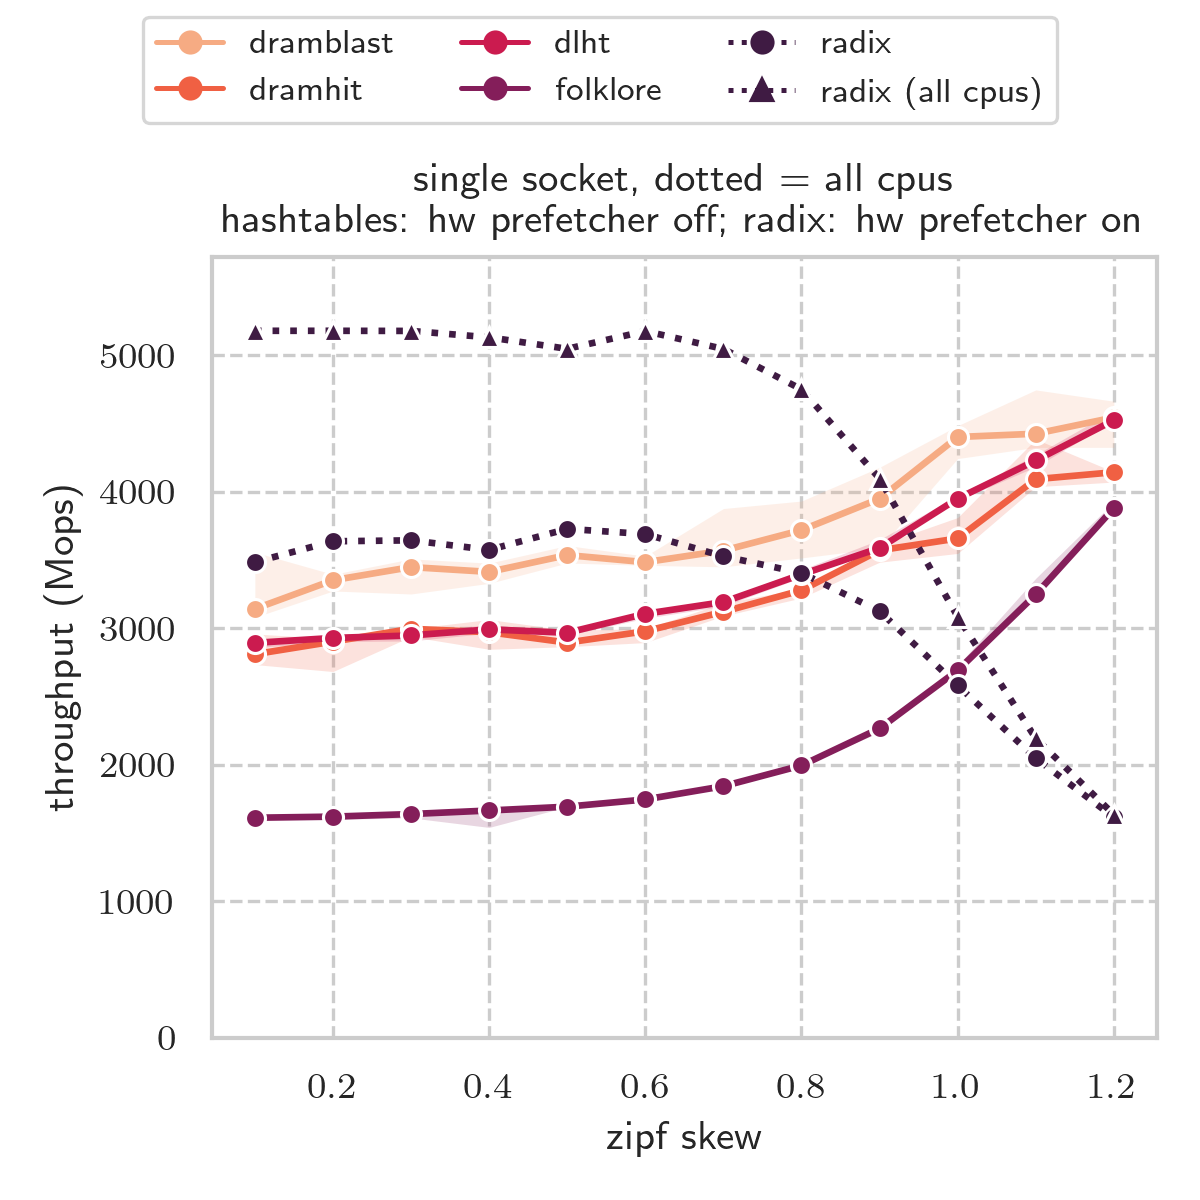
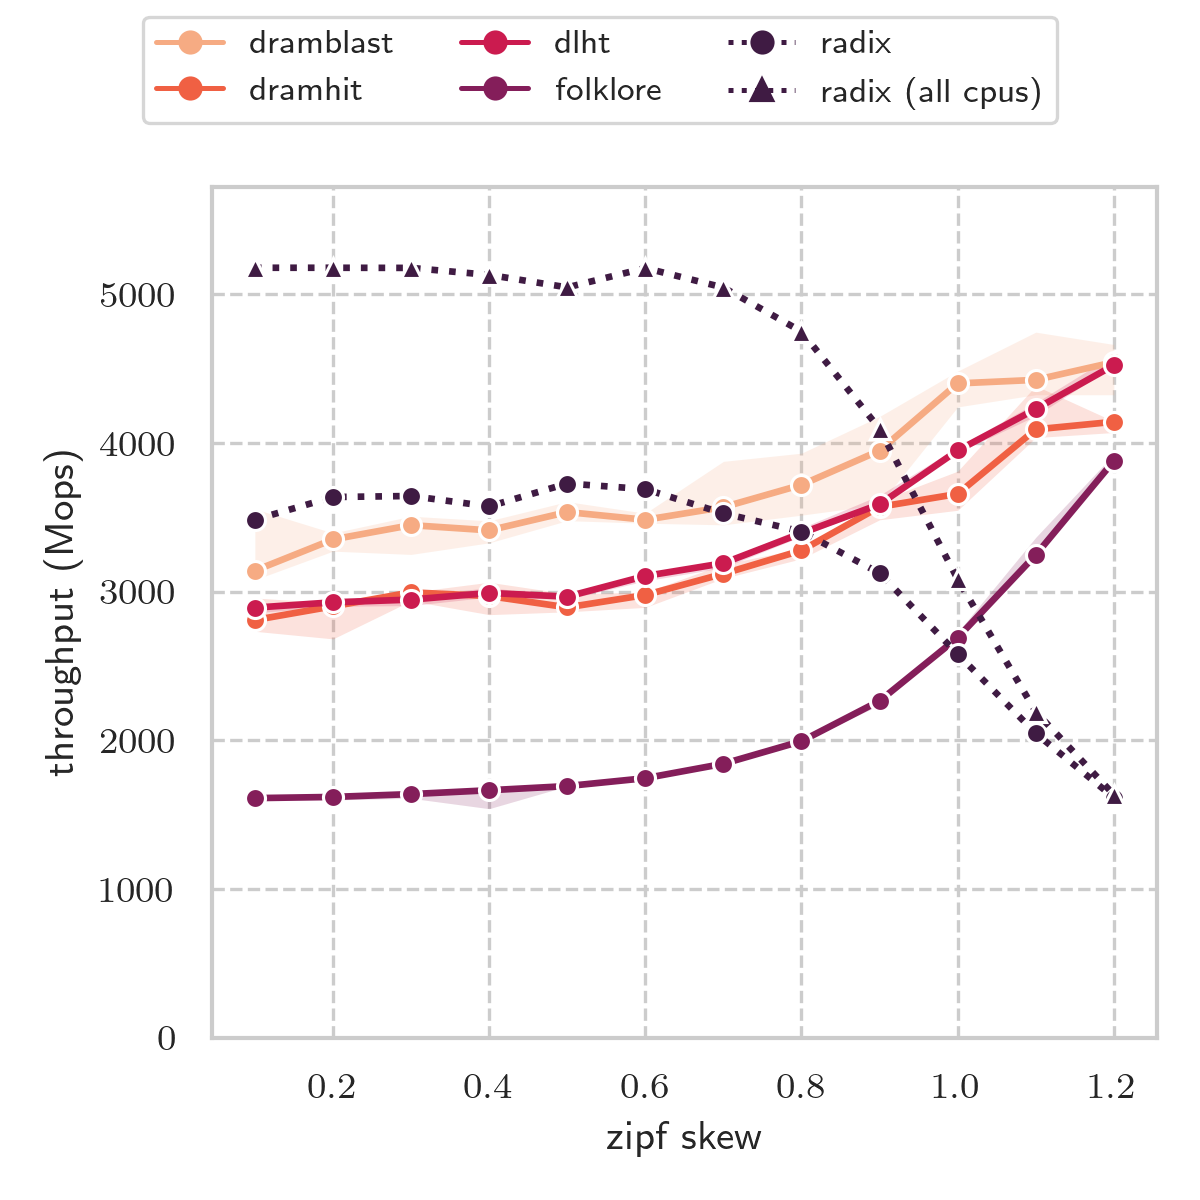
l

diff --git a/scripts/eurosys_2026/macro_uniform/plot_combined_prefoff_bw.py b/scripts/eurosys_2026/macro_uniform/plot_combined_prefoff_bw.py
@@ -6,12 +6,18 @@ panel drawn by plot_data_bw.draw. Every machine names its pref-off runs its
 own way, so each is mapped onto the plain table name first; that way one
 legend and one colour per table cover all three panels.
 
+The two figures are stacked in the paper, so only the top one (insertion)
+carries the legend and the machine titles (the columns line up); table size,
+prefetcher setting and phase are in the LaTeX caption.
+
     python3 plot_combined_prefoff_bw.py
     -> combined_uniform_prefoff_bw_set.png, combined_uniform_prefoff_bw_get.png
 """
 
 import json
 from pathlib import Path
+
+from matplotlib.lines import Line2D
 
 import plot_data_bw as pb
 from plot_data_bw import ps
@@ -20,15 +26,15 @@ SCRIPT_DIR = Path(__file__).resolve().parent
 
 # (label, json, {plain name: that json's pref-off series}, {phase: ceiling})
 MACHINES = [
-    ("amd-9354p", "amd/amd-9354p_uniform.json",
+    ("AMD EPYC 9354P", "amd/amd-9354p_uniform.json",
      {"cas": "cas", "cas23": "cas23", "folklore": "folklore",
       "dlht": "dlht", "dlht_batch16": "dlht_batch16"},
      pb.CEILINGS_AMD_9354P),
-    ("intel-6548y", "intel/intel-6548y_uniform.json",
+    ("Intel Xeon Gold 6548Y+", "intel/intel-6548y_uniform.json",
      {"cas": "cas", "cas23": "cas23", "folklore": "folklore_nopref",
       "dlht": "dlht_nopref", "dlht_batch16": "dlht_batch16"},
      {"set": pb.DEFAULT_CEILING_GBPS, "get": pb.DEFAULT_CEILING_GBPS}),
-    ("intel-max9462 (hbm)", "intel_hbm/intel-max9462-hbm_uniform.json",
+    ("Intel Xeon Max 9462 (HBM)", "intel_hbm/intel-max9462-hbm_uniform.json",
      {"cas": "cas_hwpf_off", "cas23": "cas23_hwpf_off",
       "folklore": "folklore_hwpf_off", "dlht": "dlht_hwpf_off",
       "dlht_batch16": "dlht_b16_hwpf_off"},
@@ -54,6 +60,21 @@ def remap(data, mapping):
     return out
 
 
+def legend(fig, styles):
+    """Tables and the filled/open marker key, in one row above the panels."""
+    handles = [Line2D([0], [0], label=ps.display_name(n), **styles[n])
+               for n in TABLES]
+    handles += [
+        Line2D([0], [0], color="0.25", linestyle="none", marker="o",
+               markersize=5, label="throughput (left axis)"),
+        Line2D([0], [0], color="0.25", linestyle="none", marker="o",
+               markersize=5, markerfacecolor="none",
+               label="bandwidth (right axis)"),
+    ]
+    fig.legend(handles=handles, fontsize=8, loc="upper center",
+               ncol=len(handles))
+
+
 def main():
     ps.configure_style()
     palette = ps.configure_palette()
@@ -64,20 +85,19 @@ def main():
         data = remap(pb.load(SCRIPT_DIR / path), mapping)
         panels.append((label, data, ceilings or hbm_ceilings()))
 
-    for phase, phase_label in pb.PHASES:
+    for i, (phase, _) in enumerate(pb.PHASES):
         fig, axes = ps.get_subplots(1, len(panels), plot_w=5)
         for ax, (label, data, ceilings) in zip(axes, panels):
             limits = pb.axis_limits(data, ceilings)[phase]
             xticks = sorted({f for n in TABLES
                              for f in data["tables"][n]["fills"]})
-            title = pb.title_for(data, f"{label}: {phase_label}",
-                                 "hw prefetcher off")
+            title = f"{label}, {data['num_threads']} threads" if i == 0 else None
             pb.draw(ax, pb.frame(data, phase), TABLES, title, palette,
                     xticks, ceilings[phase], limits, styles)
-        ps.add_legend(fig, palette, TABLES, ncol=len(TABLES), styles=styles)
-        pb.metric_legend(fig, 0.93)
+        if i == 0:
+            legend(fig, styles)
         ps.save(fig, SCRIPT_DIR / f"combined_uniform_prefoff_bw_{phase}.png",
-                legend_top=0.87)
+                legend_top=0.9 if i == 0 else 1.0)
 
 
 if __name__ == "__main__":

diff --git a/scripts/eurosys_2026/intel_hbm/collect_radix_8gb.py b/scripts/eurosys_2026/intel_hbm/collect_radix_8gb.py
@@ -9,6 +9,38 @@ filename = "intel_hbm_single_radix_sweep_8gb"
 build_sz = 8 * int(1024 * 1024 * 1024 / 16)  # 8gb
 
 
+def plot(experiment_data):
+    """Cycles per tuple for each phase vs radix bits. The axes say what is
+    plotted; the setup (8 GB relations, HBM machine) is in the LaTeX caption."""
+    radices = [e["radix"] for e in experiment_data]
+    configure_style()
+    palette = configure_palette(3)
+
+    fig, axes = get_subplots(1, 1)
+    ax = axes if not hasattr(axes, "ravel") else axes.ravel()[0]
+
+    for key, marker, ls, colour, label in [
+        ("partition_cycles_per_tuple", "o", "-", palette[0], "partition phase"),
+        ("join_cycles_per_tuple", "s", "-", palette[1], "join phase"),
+        ("total_cycles_per_tuple", "^", "--", palette[2], "total"),
+    ]:
+        ax.plot(radices, [e[key] for e in experiment_data], marker=marker,
+                linestyle=ls, color=colour, linewidth=1.6, label=label)
+
+    ax.set_xlabel("radix")
+    ax.set_ylabel("cycle per tuple")
+    ax.set_xticks(radices)
+    ax.set_ylim(bottom=0)
+    tidy(ax)
+
+    fig.legend(fontsize=8, loc="upper center", ncol=3)
+    plt.tight_layout(rect=[0, 0, 1, 0.93])
+
+    output_filename = filename + ".png"
+    plt.savefig(output_filename, dpi=300)
+    print(f"Plot successfully saved to {output_filename}")
+
+
 def run_dramhit_experiments():
     # Radix values swept around the optimal-radix pick (14) for 8gb relation size.
     radix_values = list(range(10, 16))
@@ -112,39 +144,18 @@ def run_dramhit_experiments():
             json.dump(experiment_data, json_file, indent=4)
         print(f"\nData successfully saved to {json_filename}")
 
-        configure_style()
-        palette = configure_palette(3)
-
-        fig, axes = get_subplots(1, 1)
-        ax = axes if not hasattr(axes, "ravel") else axes.ravel()[0]
-
-        ax.plot(successful_radices, partition_cycles_data, marker="o",
-                linestyle="-", color=palette[0], linewidth=1.6,
-                label="partition phase")
-        ax.plot(successful_radices, join_cycles_data, marker="s",
-                linestyle="-", color=palette[1], linewidth=1.6,
-                label="join phase")
-        ax.plot(successful_radices, total_cycles_data, marker="^",
-                linestyle="--", color=palette[2], linewidth=1.6,
-                label="total")
-
-        ax.set_title("Partition/Join Cycle per Tuple vs Selected Radix")
-        ax.set_xlabel("radix")
-        ax.set_ylabel("cycle per tuple")
-        ax.set_xticks(successful_radices)
-        ax.set_ylim(bottom=0)
-        tidy(ax)
-
-        fig.legend(fontsize=8, loc="upper center", ncol=3)
-        plt.tight_layout(rect=[0, 0, 1, 0.90])
-
-        output_filename = filename + ".png"
-        plt.savefig(output_filename, dpi=300)
-        print(f"Plot successfully saved to {output_filename}")
+        plot(experiment_data)
 
     else:
         print("\nNo valid data was captured to generate a plot or JSON file.")
 
 
 if __name__ == "__main__":
-    run_dramhit_experiments()
+    import sys
+
+    # --plot-only redraws the png from the saved json without re-running.
+    if "--plot-only" in sys.argv:
+        with open(filename + ".json") as f:
+            plot(json.load(f))
+    else:
+        run_dramhit_experiments()

diff --git a/scripts/eurosys_2026/collect_scalability/plot_cpu_scaling_all.py b/scripts/eurosys_2026/collect_scalability/plot_cpu_scaling_all.py
@@ -161,7 +161,7 @@ def series_peak(data, series, key, default=0):
                 if v is not None] or [default])
 
 
-def plot(datasets, series, out_path, metric, free_y):
+def plot(datasets, series, out_path, metric, free_y, ymax=None):
     ps.configure_style()
     colors = ps.configure_palette(len(series))
 
@@ -170,6 +170,8 @@ def plot(datasets, series, out_path, metric, free_y):
         top = max(series_peak(d, series, metric_key(d, metric)[0], default=1)
                   for d in datasets)
         ylim = (0, top * 1.12)
+    if ymax is not None:
+        ylim = (0, ymax)
 
     fig, axes = plt.subplots(1, len(datasets), figsize=(4.6 * len(datasets), 4.8),
                              sharey=not free_y)
@@ -178,7 +180,7 @@ def plot(datasets, series, out_path, metric, free_y):
         draw(ax, data, series, colors, metric, ylim)
 
     ylabel = {"prog": "bandwidth reported by bandwidth.c (GB/s)",
-              "peak": "DRAM bandwidth at the controllers, peak interval (GB/s)",
+              "peak": "DRAM bandwidth (GB/s)",
               "dram": "DRAM bandwidth at the controllers (GB/s)"}[metric]
     axes[0].set_ylabel(ylabel)
 
@@ -209,6 +211,8 @@ def main():
                          "reads: random read under every access instruction")
     ap.add_argument("--free-y", action="store_true",
                     help="scale each panel to its own data instead of sharing y")
+    ap.add_argument("--ymax", type=float, default=None,
+                    help="fix every panel's y axis to [0, YMAX] GB/s")
     ap.add_argument("--out", default=None)
     args = ap.parse_args()
 
@@ -229,7 +233,7 @@ def main():
     free = "_freey" if args.free_y else ""
     which = "" if args.set == "mix" else f"_{args.set}"
     out = args.out or str(SCRIPT_DIR / f"cpu_scaling_all{which}{suffix}{free}.png")
-    plot(datasets, SERIES_SETS[args.set], out, args.metric, args.free_y)
+    plot(datasets, SERIES_SETS[args.set], out, args.metric, args.free_y, args.ymax)
 
 
 if __name__ == "__main__":

diff --git a/scripts/eurosys_2026/paper_style.py b/scripts/eurosys_2026/paper_style.py
@@ -104,6 +104,17 @@ for _base in PALETTE_ORDER:
 VARIANT_STYLE["dlht_b16_hwpf_off"] = {"base": "dlht", "linestyle": "-.", "marker": "^"}
 DISPLAY_NAMES["dlht_b16_hwpf_off"] = "dlht batch 16 (hw pref off)"
 
+# The partitioned tables of the k-mer runs (collect_kmer/, ht-type 1 and 12):
+# one private table per consumer, but the same probing code as the shared
+# table they are built from, so they keep its colour. Dash-dot + diamond,
+# because dashed-square already means "hw pref off" on every colour.
+VARIANT_STYLE["cas_part"] = {"base": "cas", "linestyle": "-.", "marker": "D"}
+VARIANT_STYLE["cas23_part"] = {"base": "cas23", "linestyle": "-.", "marker": "D"}
+DISPLAY_NAMES["cas_part"] = "dramblast-p"
+DISPLAY_NAMES["cas23_part"] = "dramhit-p"
+ALIASES["dramblast-p"] = "cas_part"
+ALIASES["dramhit-p"] = "cas23_part"
+
 TUPLE_BYTES = 16
 
 

diff --git a/scripts/eurosys_2026/intel_hbm/plot_relation_size.py b/scripts/eurosys_2026/intel_hbm/plot_relation_size.py
@@ -99,10 +99,6 @@ def main():
     xlabel, ylabel = axis_labels("relation_size")
     ax.set_xlabel(xlabel)
     ax.set_ylabel(ylabel)
-    # Most series are one socket; the dotted one is the whole machine, so the
-    # title says so rather than labelling the figure "single socket" outright.
-    ax.set_title("single socket, dotted = all cpus\n"
-                 "hashtables: hw prefetcher off; radix: hw prefetcher on")
 
     # the sweep doubles each step, so a log2 axis spaces the points evenly
     xs = sorted(set(df["x"]))
@@ -114,7 +110,7 @@ def main():
     tidy(ax)
 
     add_legend(fig, palette, names, ncol=3)
-    plt.tight_layout(rect=[0, 0, 1, 0.90])
+    plt.tight_layout(rect=[0, 0, 1, 0.88])
     plt.savefig(OUT_PATH, dpi=300)
     plt.close(fig)
     print(f"[OK] Plot saved to {OUT_PATH}")

diff --git a/scripts/eurosys_2026/intel_hbm/plot_skew.py b/scripts/eurosys_2026/intel_hbm/plot_skew.py
@@ -86,13 +86,11 @@ def main():
     xlabel, ylabel = axis_labels("skew")
     ax.set_xlabel(xlabel)
     ax.set_ylabel(ylabel)
-    ax.set_title("single socket, dotted = all cpus\n"
-                 "hashtables: hw prefetcher off; radix: hw prefetcher on")
     ax.set_ylim(bottom=0)
     tidy(ax)
 
     add_legend(fig, palette, names, ncol=3)
-    plt.tight_layout(rect=[0, 0, 1, 0.90])
+    plt.tight_layout(rect=[0, 0, 1, 0.88])
     plt.savefig(OUT_PATH, dpi=300)
     plt.close(fig)
     print(f"[OK] Plot saved to {OUT_PATH}")

diff --git a/scripts/eurosys_2026/macro_uniform/amd_vs_intel_lookup.md b/scripts/eurosys_2026/macro_uniform/amd_vs_intel_lookup.md
@@ -42,9 +42,7 @@ The AMD collection runs all four tables with the hardware prefetcher **off**. In
 `intel-6548y_uniform.json`, `cas` and `cas23` are off but **`folklore` and `dlht` are
 prefetcher-ON**; their off-variants live under the separate keys `folklore_nopref` and
 `dlht_nopref`. Comparing the default keys across machines compares different
-configurations, and on this workload that is not a small difference:
-
-| 6548Y, fill 10 | prefetcher ON | prefetcher OFF |
+configurations, and on this workload that is not a small difference: | 6548Y, fill 10 | prefetcher ON | prefetcher OFF |
 |---|---|---|
 | folklore get_mops | 1800 | **2661** (+48%) |
 | folklore lookup bw | 336 GB/s | **200 GB/s** |
